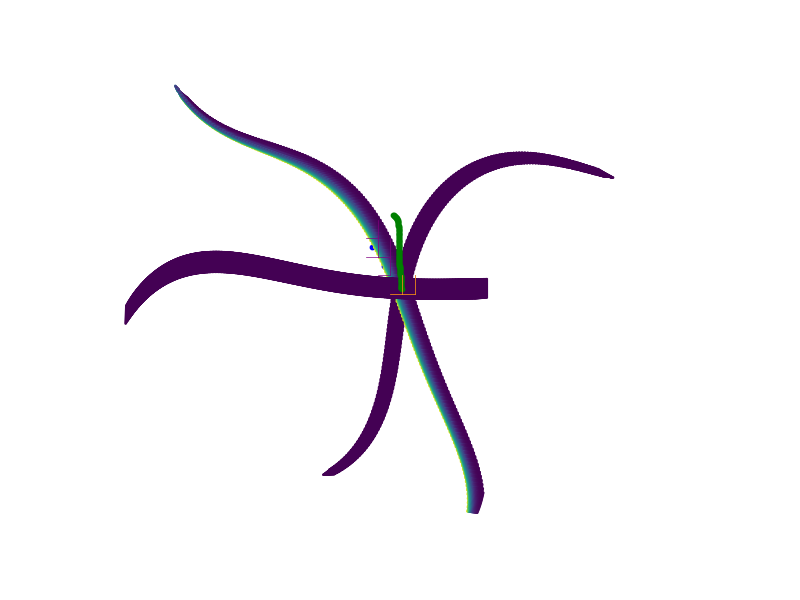
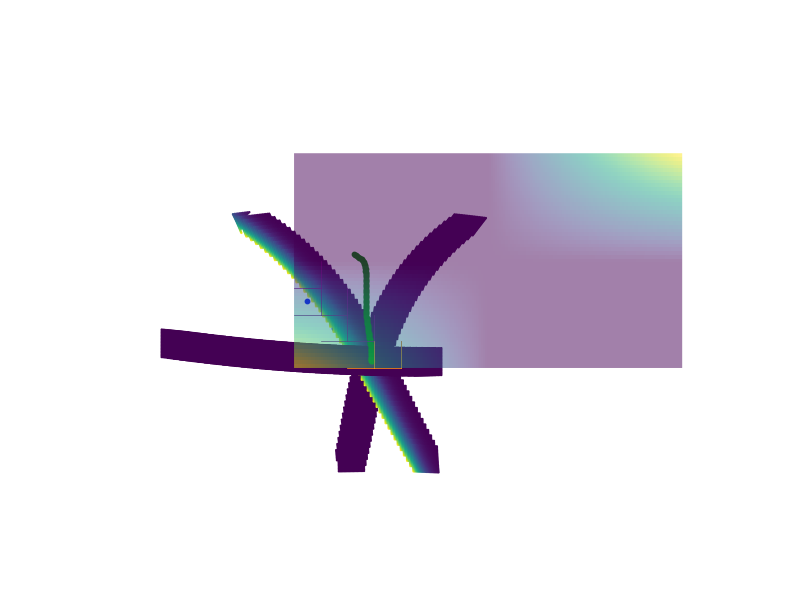
Make slight bug fixes

Changed region(s): [[0.1562, 0.15, 0.875, 0.87]]

diff --git a/code/eval_true.py b/code/eval_true.py
@@ -42,7 +42,7 @@ if __name__ == "__main__":
     import matplotlib.pyplot as plt
     import time
     dt = 3
-    Nt = 100
+    Nt = 33
 
     def get_initial_condition(BB_ts):
             fd_width = 4
@@ -117,7 +117,6 @@ if __name__ == "__main__":
             xs = np.delete(xs, 0, 0)
             #Define initial conditions
             where = np.where(ps > 0)[0]
-            print p.shape
             xs = xs[where]
             ps = ps[where]
             rho = (xs, ps)
@@ -140,6 +139,23 @@ if __name__ == "__main__":
                 x1, v1 = get_initial_condition(test_BB_ts[:, (10 + i):])
                 xs[0].append(x1[0])
                 xs[1].append(x1[1])
+
+            stpx = 0.01
+            stpy = stpx
+            x, y = np.mgrid[slice(-test_scene.height/2, test_scene.height/2 + stpy, stpy),
+                            slice(-test_scene.width, test_scene.width + stpx, stpx)]
+            def tmp(arr):
+                return np.sin(arr[0]) * np.sin(arr[1])
+            pts = np.array([x.flatten(), y.flatten()])
+            #vals = lin_term(pts).reshape(x.shape)
+            vals = tmp(pts).reshape(x.shape)
+            #np.concatenate((xs, np.array([[0, 10]])))
+            mx = np.amax(ps)
+            mx_lin = np.amax(vals)
+            #mesh = plt.pcolormesh(x, y, vals, cmap="viridis", vmin = 0, vmax = mx_lin, alpha = 0.5)
+            mesh = plt.imshow(vals, cmap='viridis', vmin=0, vmax=mx_lin, zorder=10,
+                        extent=[-test_scene.width/2, test_scene.width/2, -test_scene.height/2, test_scene.height/2],
+                                interpolation='nearest', alpha = 0.5, origin="lower")
             plt.scatter(xs[0], xs[1], s=10, color="green")
             plt.axis('off')
             plt.savefig('foo.png')

diff --git a/code/generate_distributions.py b/code/generate_distributions.py
@@ -111,10 +111,10 @@ def make_generator(scene, x, v, dt, Nt):
                 def np_min(*args):
                     comp = lambda x,y: x*(x<y)+y*(y<x)
                     return reduce(comp, args[1:], args[0])
-                u_min = np_max((x-w)/t, (x-_x[0]-wx)/t, -wv)
-                v_min = np_max((y-h)/t, (y-_x[1]-wx)/t, -wv)
-                u_max = np_max(u_min, np_min((x+w)/t, (x-_x[0]+wx)/t, wv))
-                v_max = np_max(v_min, np_min((y+h)/t, (y-_x[1]+wx)/t, wv))
+                u_min = np_max((x-w)/t, (x-_x[0]-wx)/t, _v[0] - wv)
+                v_min = np_max((y-h)/t, (y-_x[1]-wx)/t, _v[1] - wv)
+                u_max = np_max(u_min, np_min((x+w)/t, (x-_x[0]+wx)/t, _v[0] + wv))
+                v_max = np_max(v_min, np_min((y+h)/t, (y-_x[1]+wx)/t, _v[1] + wv))
                 Prob_of_x_hat_and_v_hat = _normalizing_constant(_x, _v)
                 scale = scene.P_of_c[-1] / Prob_of_x_hat_and_v_hat
                 scale /= h * w * wx**2 * wv**2
